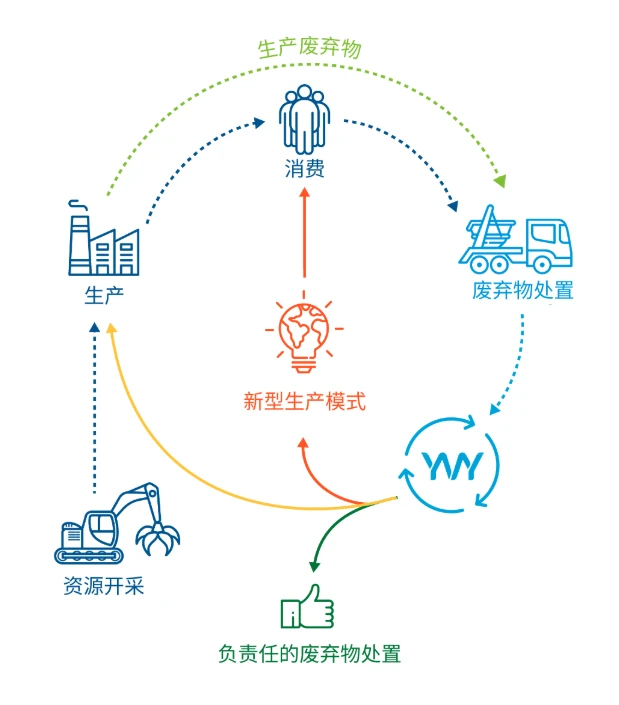
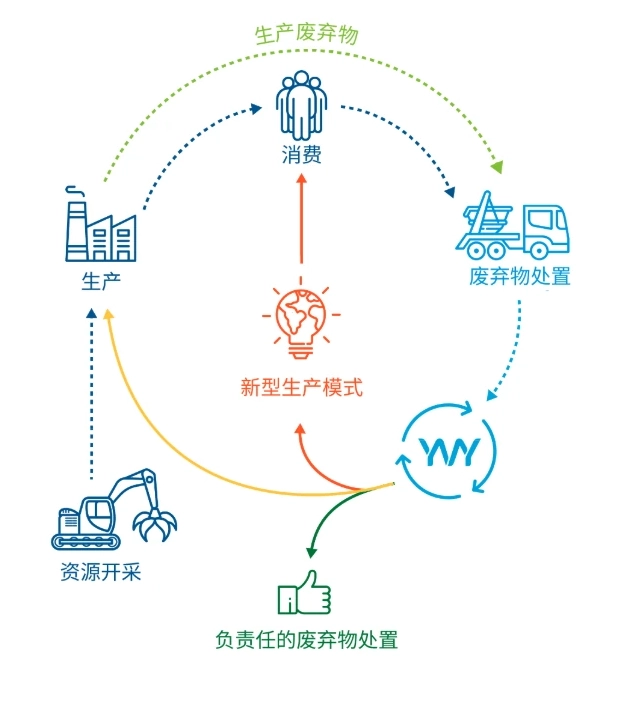
Yvy: infographics realigned so the English/Chinese switch does not shift
Claude-Session: https://claude.ai/code/session_01AMuGNUZqbNtE25LJqDK6s2

diff --git a/index.html b/index.html
@@ -19,7 +19,7 @@
   <link rel="preconnect" href="https://fonts.googleapis.com">
   <link rel="preconnect" href="https://fonts.gstatic.com" crossorigin>
   <link href="https://fonts.googleapis.com/css2?family=Bricolage+Grotesque:wght@200;700&family=Fraunces:ital,opsz,wght@0,9..144,300;0,9..144,400;0,9..144,600;0,9..144,700;1,9..144,400&family=Inter:wght@200;400;700&family=Libre+Baskerville:ital@1&display=swap" rel="stylesheet">
-  <link rel="stylesheet" href="css/style.css?v=112">
+  <link rel="stylesheet" href="css/style.css?v=113">
   <script type="application/ld+json">
 {
   "@context": "https://schema.org",

diff --git a/yvy.html b/yvy.html
@@ -19,7 +19,7 @@
   <link rel="preconnect" href="https://fonts.googleapis.com">
   <link rel="preconnect" href="https://fonts.gstatic.com" crossorigin>
   <link href="https://fonts.googleapis.com/css2?family=Fraunces:ital,opsz,wght@0,9..144,300;0,9..144,400;0,9..144,600;0,9..144,700;1,9..144,400&family=Inter:wght@200;400;700&family=Libre+Baskerville:ital@1&display=swap" rel="stylesheet">
-  <link rel="stylesheet" href="css/style.css?v=112">
+  <link rel="stylesheet" href="css/style.css?v=113">
   <script type="application/ld+json">
 {
   "@context": "https://schema.org",
